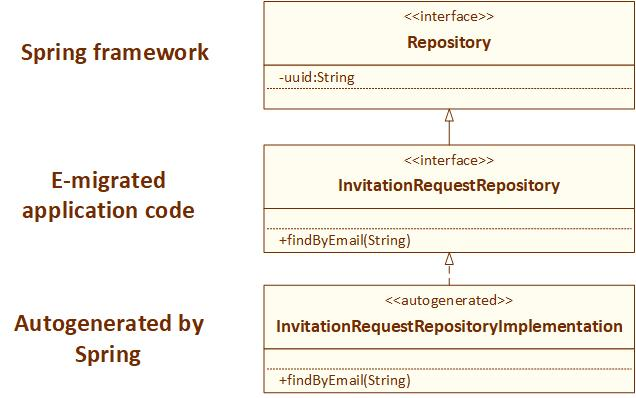
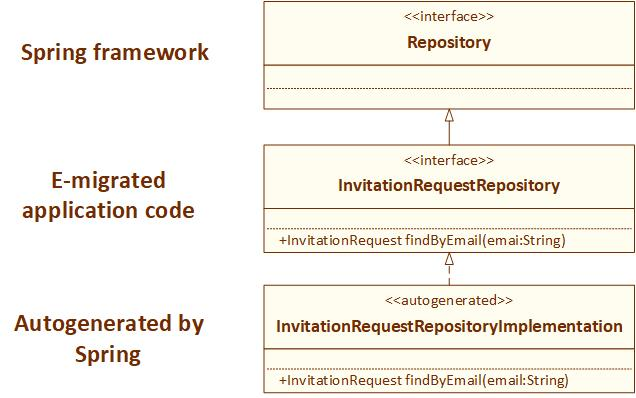
KESZ

Changed region(s): [[0.4481, 0.5729, 0.8962, 0.6332], [0.4481, 0.9347, 0.8962, 0.995], [0.4481, 0.1809, 0.5676, 0.2111]]

diff --git a/tex/02_szerver.tex b/tex/02_szerver.tex
@@ -50,7 +50,7 @@ Minden Data Access Object-nek vagy adathozzáférést implementáló osztálynak
 \footnotetext{Kép forrása: \url{https://visola.github.io/2012/03/26/simple-spring-data-example/index.html}, utolsó megtekintés dátuma: 2018-04-19}
 
 A Spring Data egy keretrendszer család, mely lehetővé teszi az adat-hozzáférés egyszerű implementációját, a különböző adattárolási technológiák (pl. SQL és NoSQL adatbázisok) egységes módon való kezelését. 
-A Spring Data repository absztrakció fő interfésze a \texttt{Repository}. A \texttt{CrudRepository} ennek leszármazottja, és lehetővé teszi a CRUD (Create, Read, Update, Delete) műveletek egyszerű megadását. Nem szükséges implementálni a DAO osztályokat, elegendő csupán kiterjeszteni a Spring Data által biztosított interfészeket, és deklarálni a  számunkra szükséges metódusokat, a keretrendszer dinamikusan fel tudja építeni a megfelelő adaterélési parancsot \cite{DataJPA}. Például az  \texttt{InvitationRequestRepository} interfészben az \texttt{findByEmail} metódus, mely visszatéríti a paraméterként megadott e-mail címhez tartozó meghívó kérést, csak ki van jelentve, nincs implementálva, az implementációt a keretrendszer generálja, a betartott konvenciók alapján (\ref{fig:SpringData}. ábra). \texttt{create, read, update, delete} illetve más metódusokat, a keretrendszer a metódus nevéből és a programozó beállításaiból dinamukisan fel tudja építeni a megfelelő adatelérési parancsot \cite{DataJPA}.  
+A Spring Data repository absztrakció fő interfésze a \texttt{Repository}. A \texttt{CrudRepository} ennek leszármazottja, és lehetővé teszi a CRUD (Create, Read, Update, Delete) műveletek egyszerű megadását. Nem szükséges implementálni a DAO osztályokat, elegendő csupán kiterjeszteni a Spring Data által biztosított interfészeket, és deklarálni a  \texttt{create, read, update, delete} illetve más metódusokat, a keretrendszer a metódus nevéből és a programozó beállításaiból dinamukisan fel tudja építeni a megfelelő adatelérési parancsot \cite{DataJPA}.   Például az  \texttt{InvitationRequestRepository} interfészben a \texttt{findByEmail} metódus, mely visszatéríti a paraméterként megadott e-mail címhez tartozó meghívó kérést, csak ki van jelentve, nincs implementálva, az implementációt a keretrendszer generálja, a betartott konvenciók alapján (\ref{fig:SpringData}. ábra). 
 \begin{figure}
   \centering
   \includegraphics[width=0.7\linewidth]{images/SpringData}
@@ -67,7 +67,7 @@ Lehetőség nyílik bonyolultabb lekérdezések egyszerű megadására is \textt
 \end{listing}
 
 
-Példa erre többek között a \texttt{UserRepository} interfészben, az \ref{lst:userRepository}. kódrészletben található \texttt{findUsersLikeSearch()} metódus, amely a \texttt{search} paraméter által megadott szöveg alapján visszatéríti azokat a felhasználókat, akiknek a nevében megtalálható az adott szövegrész. Ez a metódus a többihez hasonlatosan nincsen implementálva, az adatbázis szintű lekérdezést a keretrendszer építi fel, a \texttt{User} model osztálydefiníciója előtt található \texttt{@NamedQuery} annotáció segítségével, amely a \ref{lst:namedQuery}. kódrészletben látható. A \texttt{@Param} annotáció köti össze a \texttt{@NamedQuery}-ben szereplő \texttt{:search} változót a metódus paraméterlistájában szereplő \texttt{search} paraméter értékével. Ennek segítségével bármilyen bonyolult lekérdezés egyszerűen megírható. 
+Példa erre többek között a \texttt{UserRepository} interfészben, az \ref{lst:userRepository}. kódrészletben található \texttt{findUsersLikeSearch} metódus, amely a \texttt{search} paraméter által megadott szöveg alapján visszatéríti azokat a felhasználókat, akiknek a nevében megtalálható az adott szövegrész. Ez a metódus a többihez hasonlatosan nincsen implementálva, az adatbázis szintű lekérdezést a keretrendszer építi fel, a \texttt{User} model osztálydefiníciója előtt található \texttt{@NamedQuery} annotáció segítségével, amely a \ref{lst:namedQuery}. kódrészletben látható. A \texttt{@Param} annotáció köti össze a \texttt{@NamedQuery}-ben szereplő \texttt{:search} változót a metódus paraméterlistájában szereplő \texttt{search} paraméter értékével. Ennek segítségével bármilyen bonyolult lekérdezés egyszerűen megírható. 
 
 \begin{listing}
   \inputminted[fontsize=\small]{java}{progfiles/UserNamedQuery.java}
@@ -75,13 +75,13 @@ Példa erre többek között a \texttt{UserRepository} interfészben, az \ref{ls
   \label{lst:namedQuery}
 \end{listing}
 
-A Spring Data \texttt{PagingAndSortingRepository} interfésze olyan esetekben használható amikor nem szükséges, illetve nem kívánatos egyszerre az összes adatbázisban levő objektumot visszatéríteni, csupán azoknak egy részét, például az 10. objektumtól a 15. objektumig. A lapozás megvalósításához elegendő a \texttt{findAll()} metódus paraméterének átadni egy \texttt{PageRequest} objektumot, amelynek be van állítva, hogy hányadik oldalt térítse vissza, illetve, hogy egy oldalon hány objektum szerepeljen. Az almalmazáson belül a bejegyzések lapozása van megoldva a \texttt{PagingAndSortingRepository} segítségével.
+A Spring Data \texttt{PagingAndSortingRepository} interfésze olyan esetekben használható amikor nem szükséges, illetve nem kívánatos egyszerre az összes adatbázisban levő objektumot visszatéríteni, csupán azoknak egy részét, például az 10. objektumtól a 15. objektumig. A lapozás megvalósításához elegendő a \texttt{findAll} metódus paraméterének átadni egy \texttt{PageRequest} objektumot, amelynek be van állítva, hogy hányadik oldalt térítse vissza, illetve, hogy egy oldalon hány objektum szerepeljen. Az almalmazáson belül a bejegyzések lapozása van megoldva a \texttt{PagingAndSortingRepository} segítségével.
 
-Az E-migrated adathozzáférési rétegében minden az  \ref{sec:projektrol:adatmodell}. fejezetben említett model osztály  számára létezik egy neki megfelelő \texttt{Repository} interfész. Ezeken kívül még megtalálható a \texttt{UserConnectionRepository}, ami nem leszármazottja a \texttt{Repository} ősinterfésznek, natív implementációt tartalmaz, amire azért volt szükség, hogy a Facebook integráció esetében is biztosítani lehessen a meghíváson alapuló regisztrációt, mivel a Spring Social (lásd \ref{subsec:szocialisHalo}. fejezet) akkor is létrehoz egy bemenetet a \texttt{UserConnection} táblába, ha valaki illegálisan próbált bejelentkezni. Ezt a rekordot pedig törölni kell, hogy ne kapjon hibát az a személy, aki legálisan, meghívó által próbál regisztrálni az adott Facebook profillal, vagy épp hozzá akarja kötni ezt a Facebook profilt az E-migrated fiókjához.
+Az E-migrated adathozzáférési rétegében minden az  \ref{sec:projektrol:adatmodell}. fejezetben említett model osztály  számára létezik egy neki megfelelő \texttt{Repository} interfész. Ezeken kívül még megtalálható a \texttt{UserConnectionRepository}, ami nem leszármazottja a \texttt{Repository} ősinterfésznek, natív implementációt tartalmaz, amire azért volt szükség, hogy a Facebook integráció esetében is biztosítani lehessen a meghíváson alapuló regisztrációt, mivel a Spring Social akkor is létrehoz egy bemenetet a \texttt{UserConnection} táblába, ha valaki illegálisan próbált bejelentkezni. Ezt a rekordot pedig törölni kell, hogy ne kapjon hibát az a személy, aki legálisan, meghívó által próbál regisztrálni az adott Facebook profillal, vagy épp hozzá akarja kötni ezt a Facebook profilt az E-migrated fiókjához.
 
 \section{Üzleti logika réteg}
 \label{subsec:szolgaltatas}
-Az E-migrated alkalmazáson belül minden \texttt{Repository} osztályhoz tartozik egy \texttt{@Service} annotációval ellátott Service Spring Bean, amely injektálja a neki megfelelő \texttt{Repository} interfészt, ezáltal hivatkozhat annak metódusaira. Az alkalmazás szolgáltatási rétege a cserélhetőség érdekében egy interfészt publikál az API réteg számára, és ezeket az interfészeket implementálják a \texttt{ServiceImpl} osztályok. Ezáltal az API réteg egyszerűen injektálhatja ezeket az interfészeket, nem kell tudnia a háttérben levő implementációkról. 
+Az alkalmazáson belül minden \texttt{Repository} osztályhoz tartozik egy \texttt{@Service} annotációval ellátott Service Spring Bean, amely injektálja a neki megfelelő \texttt{Repository} interfészt, ezáltal hivatkozhat annak metódusaira. Az alkalmazás szolgáltatási rétege a cserélhetőség érdekében egy interfészt publikál az API réteg számára, és ezeket az interfészeket implementálják a \texttt{ServiceImpl} osztályok. Ezáltal az API réteg egyszerűen injektálhatja ezeket az interfészeket, nem kell tudnia a háttérben levő implementációkról. 
 
 A szolgáltatási réteg naplózza, burkolja és továbbítja a kivételeket a felsőbb rétegeknek. Minden szolgáltatási rétegbeli metódus hiba esetén dob egy \texttt{ServiceException}-t amit az API réteg kap el és kezel le.
 
@@ -166,7 +166,7 @@ A fejlesztőnek nem kell foglalkozni a Session konfigurálásával sem, a \textt
   \label{lst:sendEmail}
 \end{listing}
 
-Az üzenet felépítése és küldése (\ref{lst:sendEmail}. kódrészlet) során egy \texttt{JavaMailSender} objektum \texttt{createMimeMessage()} metódusa által visszatérített \texttt{MimeMessage} megkapja az e-mail elküldéséhez szükséges adatokat, majd a \texttt{send()} metódus elküldi az üzenetet. 
+Az üzenet felépítése és küldése (\ref{lst:sendEmail}. kódrészlet) során egy \texttt{JavaMailSender} objektum \texttt{createMimeMessage} metódusa által visszatérített \texttt{MimeMessage} megkapja az e-mail elküldéséhez szükséges adatokat, majd a \texttt{send} metódus elküldi az üzenetet. 
 
 Az E-migrated alkalmazás esetében a különböző e-mailek felépítése és elküldése, a \texttt{util} modulon belül levő \texttt{MailSenderBean} osztályban történik. Az e-mail küldéshez szükséges konfigurációs beállítások pedig a \texttt{conf} modulon belül a \texttt{MailSender} konfigurációs osztályban találhatóak meg. Ezeket az értékeket a rendszer egy \texttt{mail.properties} állományból olvassa be a \ref{subsubsec:DTO} fejezetben említett módon. Ebben az állományban található meg többek között az e-mailszerver elérési útvonala és azon belül az alkalmazásnak lefoglalt felhasználónév és jelszó.
 
@@ -176,7 +176,7 @@ A dinamikusan felépített e-mailek renderelése Freemarker templatek alapján t
 
 \section{Hibakezelés}
 \label{sec:hibakezeles}
-A kivételkezelés az alkalmazáson belül rétegenként egységesen történik, mely szerint az alsóbb rétegek naplózzák és burkolják a kivételeket, majd így továbbítják a felsőbb rétegeknek. Az adathozzáférési réteg által dobott kivételeket a szolgáltatási réteg kapja el, és burkolva továbbítja az API rétegnek. Az API réteg kezeli, és HTTP válaszkóddal kiegészítve továbbítja a kliens részére. Ennek előnye, hogy a rétegek egymástól függetlenné válnak, bármikor egyszerűen lecserélhetőek, és a felfele propagáló hibákból a kliens csak annyit lát, amennyire szüksége van, az implementációs részletek rejtve maradnak. 
+A kivételkezelés az alkalmazáson belül rétegenként egységesen va megoldva, mely szerint az alsóbb rétegek naplózzák és burkolják a kivételeket, majd így továbbítják a felsőbb rétegeknek. Az adathozzáférési réteg által dobott kivételeket a szolgáltatási réteg kapja el, és burkolva továbbítja az API rétegnek. Az API réteg kezeli, és HTTP válaszkóddal kiegészítve továbbítja a kliens részére. Ennek előnye, hogy a rétegek egymástól függetlenné válnak, bármikor egyszerűen lecserélhetőek, és a felfele propagáló hibákból a kliens csak annyit lát, amennyire szüksége van, az implementációs részletek rejtve maradnak. 
 
 A Spring Data Access modul segítségével az adathozzáférési réteg által dobott kivételek kezelése általánosan valósítható meg. A keretrendszer naplózza és \texttt{DataAccessException} objektumokba burkolja az ORM illetve a JDBC által dobott specifikus kivételeket. Ezeket  a szolgáltatási réteg elkapja és kezeli, majd \texttt{ServiceException}-ökbe burkolva továbbítja az API rétegnek. A szolgáltatási rétegben fellépő hibák szintén \texttt{ServiceException}-ként lesznek továbbítva a felsőbb komponensnek. 
 

diff --git a/tex/01_projektrol.tex b/tex/01_projektrol.tex
@@ -33,7 +33,7 @@ Minden felhasználó módosíthatja a regisztráció során megadott adatait, il
 
 A rendszerhez való csatlakozás után a felhasználók bejegyzéseket hozhatnak létre, megtekinthetik és törölhetik az általuk létrehozott bejegyzéseket, és böngészhetik a mások által közzétetteket. 
 
-Egy bejelentkezett felhasználó törölheti a fiókját, ha már nem szeretné tovább használni az alkalmazást. Törlés során két lehetőség közül választhat: szeretnék, hogy a fiókjuk törlése során törlődjenek az általuk létrehozott bejegyzések, vagy szeretnék, ha a bejegyzéseik megmaradnának, annak érdekében, hogy a többi felhasználó továbbra is láthassa, illetve visszakereshesse azokat. Ha a második opciót választják a profiljuk törlése után, az összes általuk írt bejegyzés hozzá lesz rendelve egy névtelen felhasználói fiókhoz.
+Egy bejelentkezett felhasználó törölheti a fiókját, ha már nem szeretné tovább használni az alkalmazást. Törlés során két lehetőség közül választhat: szeretné, hogy a fiókja törlése során törlődjenek az általa létrehozott bejegyzések, vagy szeretné, ha a bejegyzései megmaradnának, annak érdekében, hogy a többi felhasználó továbbra is láthassa, illetve visszakereshesse azokat. Ha a második opciót választja a profilja törlése után, az összes általa írt bejegyzés hozzá lesz rendelve egy névtelen felhasználói fiókhoz.
 
 A rendszer adminisztrátorai részére elérhető minden olyan funkcionalitás, ami egy átlagos felhasználó számára, viszont számukra a lista további funkcionalitásokkal bővül. Adminisztrátor nézetbe való váltás után lehetőségük van szerkeszteni a foglalkozásokat, újakat vezetni be a rendszerbe, illetve törölni egy már meglévőt, ha nincsen hozzá rendelve egyetlen szakember se. Az adminisztrátorok bírálják el a beérkező meghívó kéréseket, elfogadhatják, elutasíthatják illetve törölhetik ezeket, egy esetleges rövid személyes üzenet kíséretében, amelyet az illető személy egy automatikus üzenet törzsébe ágyazva kap majd meg. 
 
@@ -57,7 +57,7 @@ Az alkalmazás legösszetettebb komponense, a szerver, Java programozási nyelvb
 
 A REST egy olyan architektúrális modell, amelyet az állapot nélküli, kliens-szerver kommunikáció megvalósítására terveztek. Az állapotmentességből kifolyólag a szerver nem tárol információt a kliensről, ezért minden hozzá érkező kérésnek tartalmaznia kell a kliens azonosításához szükséges adatokat. Az adatok és a hozzájuk tartozó műveletek erőforrásokként vannak publikálva a szerver által, amelyeket meghatározott URI-k azonosítanak. Az adatok kezelése és módosítása a POST, PUT és DELETE műveletek által, míg az adatok lekérése a GET művelet segítségével valósítható meg. A szabvány nem szögezi le a kérések illetve a válaszok formátumát, de a leggyakrabban használt formátum az XML és JSON \cite{REST}. Az E-migrated projekt esetében a kérések és válaszok küldése JSON formátumban történik.  
 
-A perzisztencia megvalósítására MySQL adatbázist használ, mellyel a Spring keretrendszer által biztosított Java Persistence API (JPA) imlementációja segítségével kommunikál. A Spring JPA egy absztrakciós szintet képvisel a JPA fölött, a fejlesztőknek nem kell implementálniuk az adathozzáférést végző osztályokat, elegendő kiterjeszteniük a keretrendszer által biztosított interfészeket. 
+A szerver a perzisztencia megvalósítására MySQL adatbázist használ, mellyel a Spring keretrendszer által biztosított Java Persistence API (JPA) imlementációja segítségével kommunikál. A Spring JPA egy absztrakciós szintet képvisel a JPA fölött, a fejlesztőknek nem kell implementálniuk az adathozzáférést végző osztályokat, elegendő kiterjeszteniük a keretrendszer által biztosított interfészeket. 
 
 
 

diff --git a/tex/03_kliens.tex b/tex/03_kliens.tex
@@ -5,7 +5,7 @@
 
 \section{Kliens oldali architekturális megoldások}
 Az E-migrated alkalmazás kliens oldali MVC-t (Model-View-Controller) alkalmaz \cite{WebMVC}, ezáltal elkülönítve a nézetet az adatoktól és a vezérléstől. A kliens oldali MVC esetében a szerver csak statikus erőforrásként szolgál, nem teljesen felépített nézeteket küld vissza, csupán az ezek rendereléséhez szükséges adatokat szolgáltatja REST erőforrások formájában. A kliens oldal felelős ezek feldolgozásáért és megfelelő megjelenítéséért a kapott adatok és a meglévő sablonok alapján.
-Az alkalmazás kliens oldalának architekturális megoldásai \aref{fig:ClientArchitecture} ábrán lathatóak. 
+Az alkalmazás kliens oldalának architekturális megoldásai \aref{fig:ClientArchitecture}. ábrán lathatóak. 
 
 \begin{figure}
   \centering
@@ -39,7 +39,7 @@ A Web Controller a kliens oldali MVC üzleti logika részét képezi. Felelős a
 
 Minden nézethez hozzárendelhető egy vagy több vezérlő, amelyeket az \texttt{ng-controller} direktívák segítségével vagy az \texttt{app.config} állományban állíthatunk be. A kontroller létrejövetelekor hozzárendelődik a DOM-hoz és egy \texttt{\$scope} objektumon keresztül hozzáférést kap a nézet elemeihez, amelyeket ezáltal irányíthat és módosíthatja tulajdonságaikat. 
 
-A nézet inicializálása az \texttt{ng-init} direktívának megadott metódus aktiválása által történik, automatikusan. Minden a nézetben használni kívánt metódust hozzá kell rendelni a vezérlő \texttt{\$scope}  objektumához. Ez teszi lehetővé, hogy a kontroller különböző események hatására megfelelő viselkedést biztosíthasson. Ilyen esemény lehet például egy gombra való kattintás, amely során a gomb \texttt{ng-click} direktívájának értékeként megadott metódus aktiválódik. \Aref{lst:ngClick} kódrészletben látható a meghívó kérések kilistázása, amelyeket az adminisztrátor elfogadhat, elutasíthat vagy törölhet, kattintása során aktiválva a \texttt{RequestInvitation} kontroller megfelelő metódusát.
+A nézet inicializálása az \texttt{ng-init} direktívának megadott metódus aktiválása által történik, automatikusan. Minden a nézetben használni kívánt metódust hozzá kell rendelni a vezérlő \texttt{\$scope}  objektumához. Ez teszi lehetővé, hogy a kontroller különböző események hatására megfelelő viselkedést biztosíthasson. Ilyen esemény lehet például egy gombra való kattintás, amely során a gomb \texttt{ng-click} direktívájának értékeként megadott metódus aktiválódik. \Aref{lst:ngClick}. kódrészletben látható a meghívó kérések kilistázása, amelyeket az adminisztrátor elfogadhat, elutasíthat vagy törölhet, kattintása során aktiválva a \texttt{RequestInvitation} kontroller megfelelő metódusát.
 
 \begin{listing}
   \inputminted[fontsize=\small]{html}{progfiles/ngClick.html}

diff --git a/tex/06_kovetkeztetes.tex b/tex/06_kovetkeztetes.tex
@@ -1,7 +1,7 @@
 \chapter{Következtetések és továbbfejlesztési lehetőségek}
 \label{ch:kovetkeztetes}
 
-Az E-migrated alkalmazás célja egy olyan közösség kialakítása, melynek tagjai Székelyföldről elszármazott, vagy ott élő szakemberek, akik támogatják és segítik egymást, megosztják tapasztalataikat, tudásukat másokkal, ezáltal hozzájárulva a régió technológia és gazdasági fejlődéséhez. 
+Az E-migrated alkalmazás célja egy olyan közösség kialakítása, melynek tagjai Székelyföldről elszármazott, vagy ott élő szakemberek, akik támogatják és segítik egymást, megosztják tapasztalataikat, tudásukat másokkal, ezáltal hozzájárulva a régió technológiai és gazdasági fejlődéséhez. 
 
 A kezdeti nehézségek ellenére sikerült az alapötletnek megfelelő, működő prototípust létrehozni, mely alapjául szolgálhat egy későbbi, éles projektnek is, hiszen a fejlesztés során mindvégig fontos szempont volt az egyszerű bővíthetőség, újrafelhasználhatóság és tesztelhetőség.  A korán kialakított, szilárd alapokon álló architektúrának és az átgondolt design döntéseknek köszönhetően ezt sikerült is megvalósítani. 
 

diff --git a/minta_dolgozat.tex b/minta_dolgozat.tex
@@ -69,7 +69,7 @@ drd. Csaba Sulyok
 }
 %%
 \tutorEN{%
-Assist prof. dr. Károly Simon\\
+Assistant prof. dr. Károly Simon\\
 Csaba Sulyok, PhD candidate
 % {\large Babe\c{s}--Bolyai University,\\
 % Faculty of Mathematics and Informatics}
@@ -103,7 +103,9 @@ This work is the result of my own activity. I have neither given nor received un
 % ez a címoldal része
 \maketitle
 %% 
+
 % a dolgozat tartalomjegyzéke -- ez automatikusan generálódik a STRUKTÚRA alapján.
+
 { \baselineskip 1ex
   \parskip 1ex
   \tableofcontents
